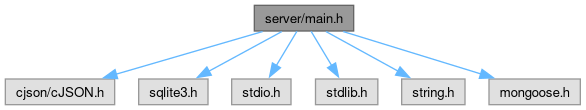
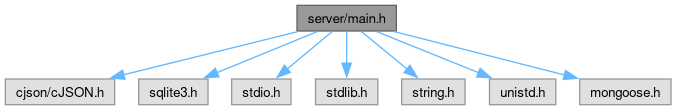
Type: Chore

Changed region(s): [[0.0, 0.0273, 1.0, 0.9818], [0.6451, 0.4091, 0.6758, 0.4364]]

diff --git a/docs/backend/html/main_8h_source.html b/docs/backend/html/main_8h_source.html
@@ -112,23 +112,24 @@ $(function(){initNavTree('main_8h_source.html',''); initResizable(true); });
 <div class="line"><a id="l00008" name="l00008"></a><span class="lineno">    8</span><span class="preprocessor">#include &lt;stdio.h&gt;</span></div>
 <div class="line"><a id="l00009" name="l00009"></a><span class="lineno">    9</span><span class="preprocessor">#include &lt;stdlib.h&gt;</span></div>
 <div class="line"><a id="l00010" name="l00010"></a><span class="lineno">   10</span><span class="preprocessor">#include &lt;string.h&gt;</span></div>
-<div class="line"><a id="l00011" name="l00011"></a><span class="lineno">   11</span> </div>
-<div class="line"><a id="l00012" name="l00012"></a><span class="lineno">   12</span><span class="preprocessor">#include &quot;mongoose.h&quot;</span></div>
-<div class="line"><a id="l00013" name="l00013"></a><span class="lineno">   13</span></div>
-<div class="line"><a id="l00015" name="l00015"></a><span class="lineno"><a class="line" href="main_8h.html#a614217d263be1fb1a5f76e2ff7be19a2">   15</a></span><span class="preprocessor">#define PORT &quot;8080&quot;</span></div>
-<div class="line"><a id="l00016" name="l00016"></a><span class="lineno">   16</span></div>
-<div class="line"><a id="l00018" name="l00018"></a><span class="lineno"><a class="line" href="main_8h.html#a0670e0e3546fcd815d007fe1aeff321e">   18</a></span><span class="preprocessor">#define DB_PATH &quot;/data/dev.db&quot;</span></div>
-<div class="line"><a id="l00019" name="l00019"></a><span class="lineno">   19</span> </div>
-<div class="line"><a id="l00020" name="l00020"></a><span class="lineno">   20</span><span class="preprocessor">#define RETRY_DELAY 10</span></div>
-<div class="line"><a id="l00021" name="l00021"></a><span class="lineno">   21</span><span class="preprocessor">#define KEYS_JSON &quot;/data/var_specs.json&quot;</span></div>
-<div class="line"><a id="l00022" name="l00022"></a><span class="lineno">   22</span></div>
-<div class="line"><a id="l00024" name="l00024"></a><span class="lineno">   24</span><span class="keyword">const</span> <span class="keywordtype">char</span>* <a class="code hl_function" href="main_8h.html#a61ec9e2877853007eb20d47ab707871a">c_get_weather_data</a>(<span class="keywordtype">double</span> lat, <span class="keywordtype">double</span> lon, <span class="keywordtype">int</span>* code);</div>
-<div class="line"><a id="l00025" name="l00025"></a><span class="lineno">   25</span> </div>
-<div class="line"><a id="l00026" name="l00026"></a><span class="lineno">   26</span><span class="keywordtype">char</span>** build_keys(<span class="keywordtype">int</span>* out_n);</div>
-<div class="line"><a id="l00027" name="l00027"></a><span class="lineno">   27</span></div>
-<div class="line"><a id="l00029" name="l00029"></a><span class="lineno">   29</span><span class="keyword">const</span> <span class="keywordtype">char</span>* <a class="code hl_function" href="main_8h.html#a4c4d63e48e69d69a2a21ca9abe08e68f">c_get_weather_var</a>(<span class="keywordtype">double</span> lat, <span class="keywordtype">double</span> lon, <span class="keywordtype">char</span>* var, <span class="keywordtype">int</span>* code);</div>
-<div class="ttc" id="amain_8h_html_a4c4d63e48e69d69a2a21ca9abe08e68f"><div class="ttname"><a href="main_8h.html#a4c4d63e48e69d69a2a21ca9abe08e68f">c_get_weather_var</a></div><div class="ttdeci">const char * c_get_weather_var(double lat, double lon, char *var, int *code)</div><div class="ttdoc">\ Datos del clima por variable.</div><div class="ttdef"><b>Definition</b> main.c:264</div></div>
-<div class="ttc" id="amain_8h_html_a61ec9e2877853007eb20d47ab707871a"><div class="ttname"><a href="main_8h.html#a61ec9e2877853007eb20d47ab707871a">c_get_weather_data</a></div><div class="ttdeci">const char * c_get_weather_data(double lat, double lon, int *code)</div><div class="ttdoc">\ Datos del clima en paquete.</div><div class="ttdef"><b>Definition</b> main.c:191</div></div>
+<div class="line"><a id="l00011" name="l00011"></a><span class="lineno">   11</span><span class="preprocessor">#include &lt;unistd.h&gt;</span></div>
+<div class="line"><a id="l00012" name="l00012"></a><span class="lineno">   12</span> </div>
+<div class="line"><a id="l00013" name="l00013"></a><span class="lineno">   13</span><span class="preprocessor">#include &quot;mongoose.h&quot;</span></div>
+<div class="line"><a id="l00014" name="l00014"></a><span class="lineno">   14</span></div>
+<div class="line"><a id="l00016" name="l00016"></a><span class="lineno"><a class="line" href="main_8h.html#a614217d263be1fb1a5f76e2ff7be19a2">   16</a></span><span class="preprocessor">#define PORT &quot;8080&quot;</span></div>
+<div class="line"><a id="l00017" name="l00017"></a><span class="lineno">   17</span></div>
+<div class="line"><a id="l00019" name="l00019"></a><span class="lineno"><a class="line" href="main_8h.html#a0670e0e3546fcd815d007fe1aeff321e">   19</a></span><span class="preprocessor">#define DB_PATH &quot;/data/dev.db&quot;</span></div>
+<div class="line"><a id="l00020" name="l00020"></a><span class="lineno">   20</span> </div>
+<div class="line"><a id="l00021" name="l00021"></a><span class="lineno">   21</span><span class="preprocessor">#define RETRY_DELAY 10</span></div>
+<div class="line"><a id="l00022" name="l00022"></a><span class="lineno">   22</span><span class="preprocessor">#define KEYS_JSON &quot;/data/var_specs.json&quot;</span></div>
+<div class="line"><a id="l00023" name="l00023"></a><span class="lineno">   23</span></div>
+<div class="line"><a id="l00025" name="l00025"></a><span class="lineno">   25</span><span class="keyword">const</span> <span class="keywordtype">char</span>* <a class="code hl_function" href="main_8h.html#a61ec9e2877853007eb20d47ab707871a">c_get_weather_data</a>(<span class="keywordtype">double</span> lat, <span class="keywordtype">double</span> lon, <span class="keywordtype">int</span>* code);</div>
+<div class="line"><a id="l00026" name="l00026"></a><span class="lineno">   26</span> </div>
+<div class="line"><a id="l00027" name="l00027"></a><span class="lineno">   27</span><span class="keywordtype">char</span>** build_keys(<span class="keywordtype">int</span>* out_n);</div>
+<div class="line"><a id="l00028" name="l00028"></a><span class="lineno">   28</span></div>
+<div class="line"><a id="l00030" name="l00030"></a><span class="lineno">   30</span><span class="keyword">const</span> <span class="keywordtype">char</span>* <a class="code hl_function" href="main_8h.html#a4c4d63e48e69d69a2a21ca9abe08e68f">c_get_weather_var</a>(<span class="keywordtype">double</span> lat, <span class="keywordtype">double</span> lon, <span class="keywordtype">char</span>* var, <span class="keywordtype">int</span>* code);</div>
+<div class="ttc" id="amain_8h_html_a4c4d63e48e69d69a2a21ca9abe08e68f"><div class="ttname"><a href="main_8h.html#a4c4d63e48e69d69a2a21ca9abe08e68f">c_get_weather_var</a></div><div class="ttdeci">const char * c_get_weather_var(double lat, double lon, char *var, int *code)</div><div class="ttdoc">\ Datos del clima por variable.</div><div class="ttdef"><b>Definition</b> main.c:328</div></div>
+<div class="ttc" id="amain_8h_html_a61ec9e2877853007eb20d47ab707871a"><div class="ttname"><a href="main_8h.html#a61ec9e2877853007eb20d47ab707871a">c_get_weather_data</a></div><div class="ttdeci">const char * c_get_weather_data(double lat, double lon, int *code)</div><div class="ttdoc">\ Datos del clima en paquete.</div><div class="ttdef"><b>Definition</b> main.c:238</div></div>
 </div><!-- fragment --></div><!-- contents -->
 </div><!-- doc-content -->
 <!-- start footer part -->

diff --git a/docs/backend/html/main_8h.html b/docs/backend/html/main_8h.html
@@ -116,25 +116,28 @@ $(function(){initNavTree('main_8h.html',''); initResizable(true); });
 <code>#include &lt;stdio.h&gt;</code><br />
 <code>#include &lt;stdlib.h&gt;</code><br />
 <code>#include &lt;string.h&gt;</code><br />
+<code>#include &lt;unistd.h&gt;</code><br />
 <code>#include &quot;mongoose.h&quot;</code><br />
 </div><div class="textblock"><div class="dynheader">
 Include dependency graph for main.h:</div>
 <div class="dyncontent">
 <div class="center"><img src="main_8h__incl.png" border="0" usemap="#aserver_2main_8h" alt=""/></div>
 <map name="aserver_2main_8h" id="aserver_2main_8h">
-<area shape="rect" title="Presentamos el API de C para devolver los datos. Los datos sobre el clima siempre son en grados celsi..." alt="" coords="254,5,354,31"/>
+<area shape="rect" title="Presentamos el API de C para devolver los datos. Los datos sobre el clima siempre son en grados celsi..." alt="" coords="297,5,396,31"/>
 <area shape="rect" title=" " alt="" coords="5,79,115,105"/>
-<area shape="poly" title=" " alt="" coords="263,34,117,77,115,72,262,29"/>
+<area shape="poly" title=" " alt="" coords="299,34,124,77,123,72,297,29"/>
 <area shape="rect" title=" " alt="" coords="139,79,208,105"/>
-<area shape="poly" title=" " alt="" coords="283,34,210,74,207,69,281,29"/>
+<area shape="poly" title=" " alt="" coords="318,34,218,75,216,70,316,29"/>
 <area shape="rect" title=" " alt="" coords="232,79,291,105"/>
-<area shape="poly" title=" " alt="" coords="299,33,279,67,274,64,295,30"/>
+<area shape="poly" title=" " alt="" coords="334,34,289,71,285,67,330,29"/>
 <area shape="rect" title=" " alt="" coords="316,79,378,105"/>
-<area shape="poly" title=" " alt="" coords="313,30,334,64,329,67,309,33"/>
+<area shape="poly" title=" " alt="" coords="349,31,349,63,344,63,344,31"/>
 <area shape="rect" title=" " alt="" coords="402,79,465,105"/>
-<area shape="poly" title=" " alt="" coords="327,29,399,69,397,73,325,34"/>
-<area shape="rect" title=" " alt="" coords="489,79,580,105"/>
-<area shape="poly" title=" " alt="" coords="344,29,482,71,480,77,342,34"/>
+<area shape="poly" title=" " alt="" coords="363,29,409,67,406,71,360,34"/>
+<area shape="rect" title=" " alt="" coords="490,79,556,105"/>
+<area shape="poly" title=" " alt="" coords="378,29,480,70,478,75,376,34"/>
+<area shape="rect" title=" " alt="" coords="580,79,671,105"/>
+<area shape="poly" title=" " alt="" coords="395,29,565,72,564,78,393,34"/>
 </map>
 </div>
 </div>
